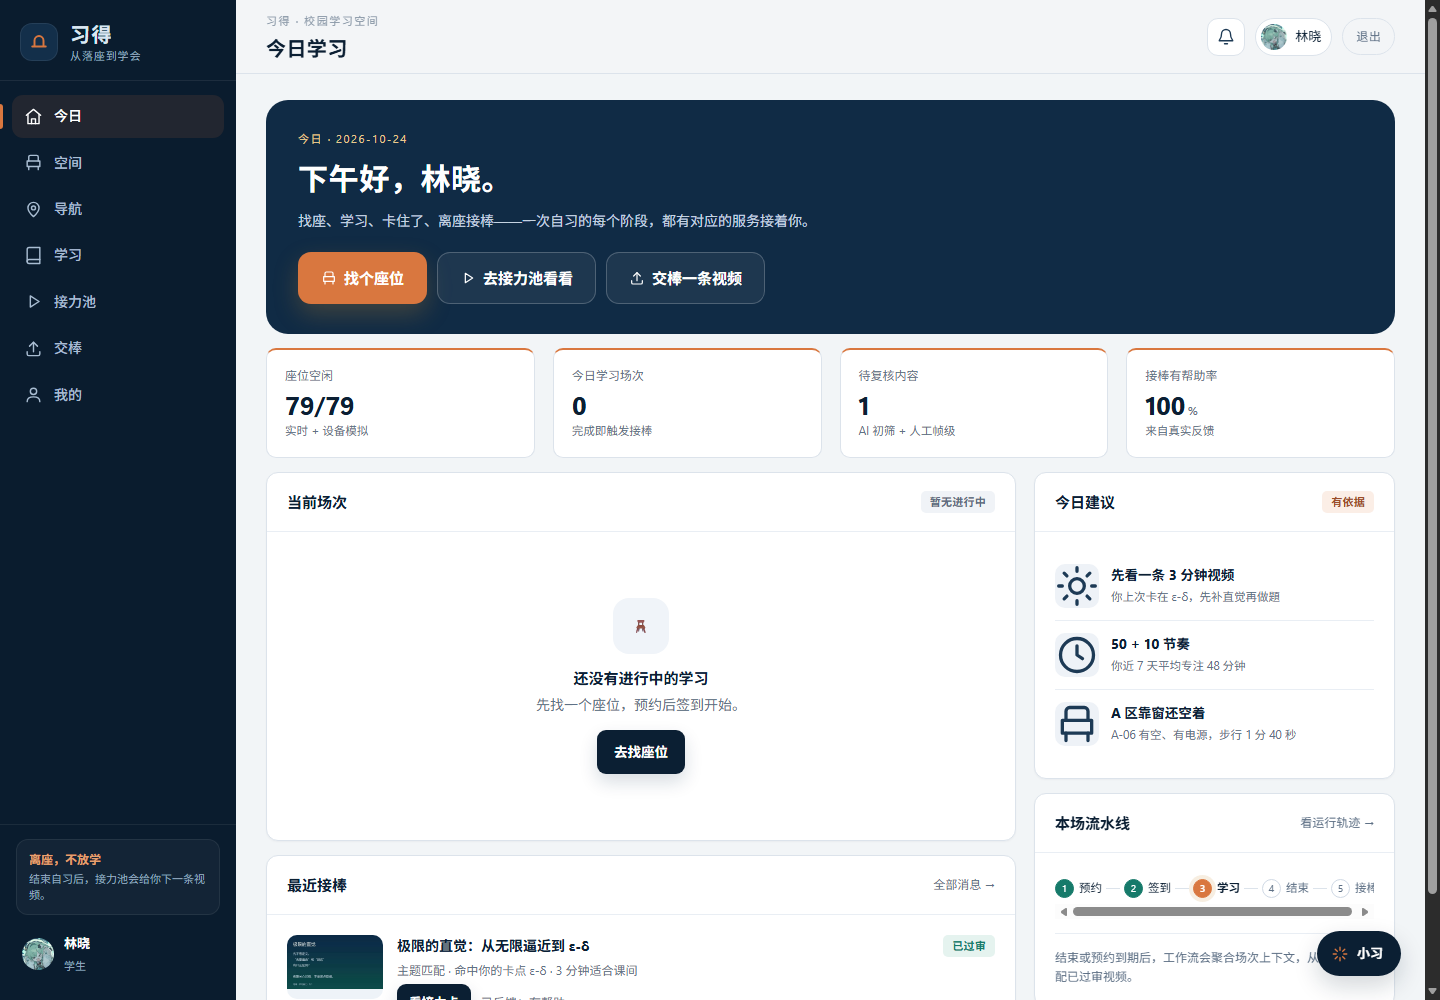
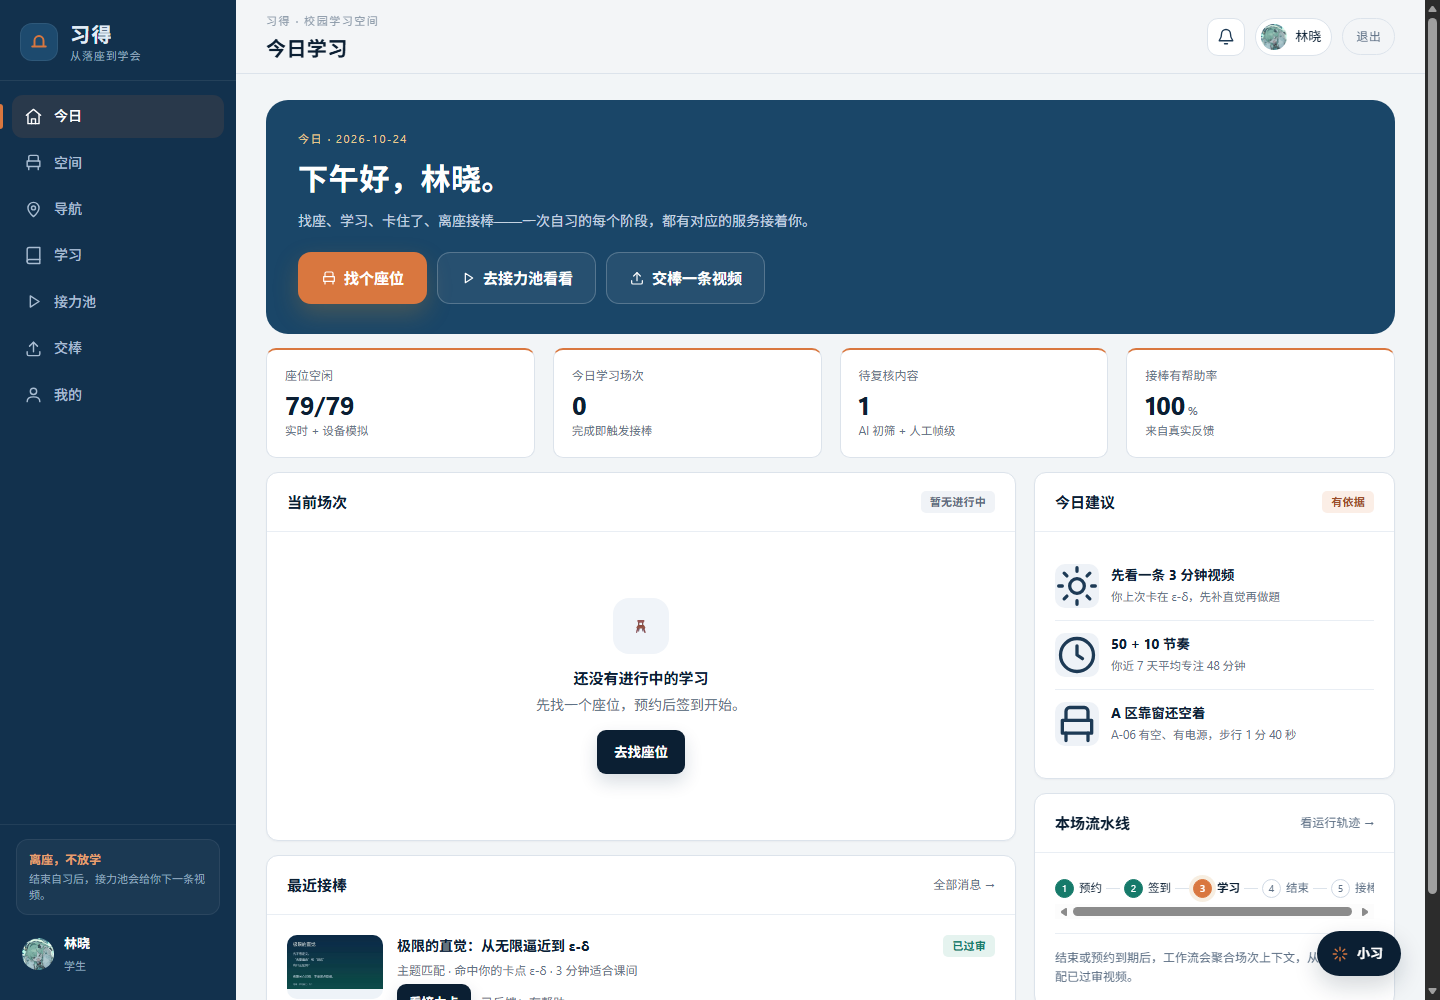
style: 深蓝背景调浅

diff --git a/static/css/editorial.css b/static/css/editorial.css
@@ -4,7 +4,7 @@
    方向：校园导视 / 图书馆索引牌：冷灰蓝底、深海军蓝、信号橙。 */
 
 :root{
-  --ink:#0b1f33; --ink-2:#1d3a55; --muted:#5f7186; --muted-2:#8b99a8;
+  --ink:#0b1f33; --navy:#1a4668; --navy-deep:#12314d; --ink-2:#1d3a55; --muted:#5f7186; --muted-2:#8b99a8;
   --line:#dce3eb; --line-2:#e9eef4; --bg:#f2f5f7; --surface:#ffffff;
   --amber:#d9773f; --amber-soft:#fbeee6; --teal:#167a6a; --teal-soft:#e5f3ef;
   --red:#b84235; --red-soft:#fbe9e6; --green:#167a6a; --blue-soft:#eaf0f7;
@@ -32,9 +32,9 @@ h1,h2,h3,.h1,.h2,.h3,.brand-text b,.poster-title{
 }
 
 /* 侧栏：结构和宽度不动，只换色与选中态 */
-.sidebar{background:#0a1c2e;color:#dbe7f2}
+.sidebar{background:var(--navy-deep);color:#e2edf7}
 .brand{border-bottom-color:rgba(255,255,255,.08)}
-.brand-mark{background:#132f4a;color:var(--amber);box-shadow:inset 0 0 0 1px rgba(255,255,255,.08)}
+.brand-mark{background:#1d4a6e;color:var(--amber);box-shadow:inset 0 0 0 1px rgba(255,255,255,.08)}
 .brand-text b{letter-spacing:.08em}
 .brand-text small{color:#91a8bf}
 .side-link{color:#a9bdd2}
@@ -85,7 +85,7 @@ h1,h2,h3,.h1,.h2,.h3,.brand-text b,.poster-title{
 .badge.red{background:var(--red-soft);color:var(--red)}
 
 /* Hero：保留原尺寸与排布，只去掉渐变/光晕，换成实色导视牌 */
-.hero{background:#102b45;color:#fff;box-shadow:none}
+.hero{background:var(--navy);color:#fff;box-shadow:none}
 .hero::before,.hero::after{display:none}
 .hero .eyebrow{color:#e6a06f}
 .hero h2{color:#fff;font-weight:650}
@@ -116,18 +116,18 @@ h1,h2,h3,.h1,.h2,.h3,.brand-text b,.poster-title{
 .seat-svg .entry{fill:var(--ink)}
 
 /* 内容卡片 */
-.content-cover{background:#102b45}
+.content-cover{background:var(--navy)}
 .content-cover .src{background:#fff;color:var(--ink);border-radius:5px}
 .content-cover .duration{background:rgba(11,31,51,.78);border-radius:5px}
 
 /* 个人主页 */
-.profile-cover{background:#102b45}
+.profile-cover{background:var(--navy)}
 .profile-cover::after{background-image:linear-gradient(rgba(255,255,255,.06) 1px,transparent 1px),linear-gradient(90deg,rgba(255,255,255,.06) 1px,transparent 1px)}
 .profile-stats b{font-family:var(--display);font-weight:650}
 .tab.active{color:var(--ink);border-bottom-color:var(--amber)}
 
 /* 登录：保留左右分栏，只换色与字重 */
-.login-art{background:#102b45;color:#fff}
+.login-art{background:var(--navy);color:#fff}
 .login-art::after{display:none}
 .login-art h1{color:#fff;font-family:var(--display);font-weight:650;letter-spacing:-.02em}
 .login-art p{color:#c5d3e2}
